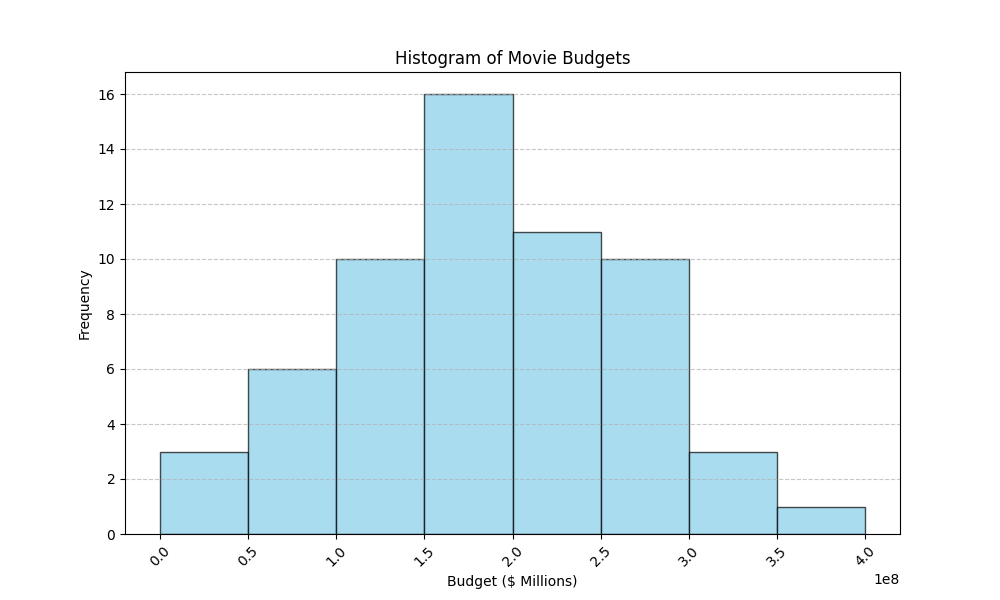
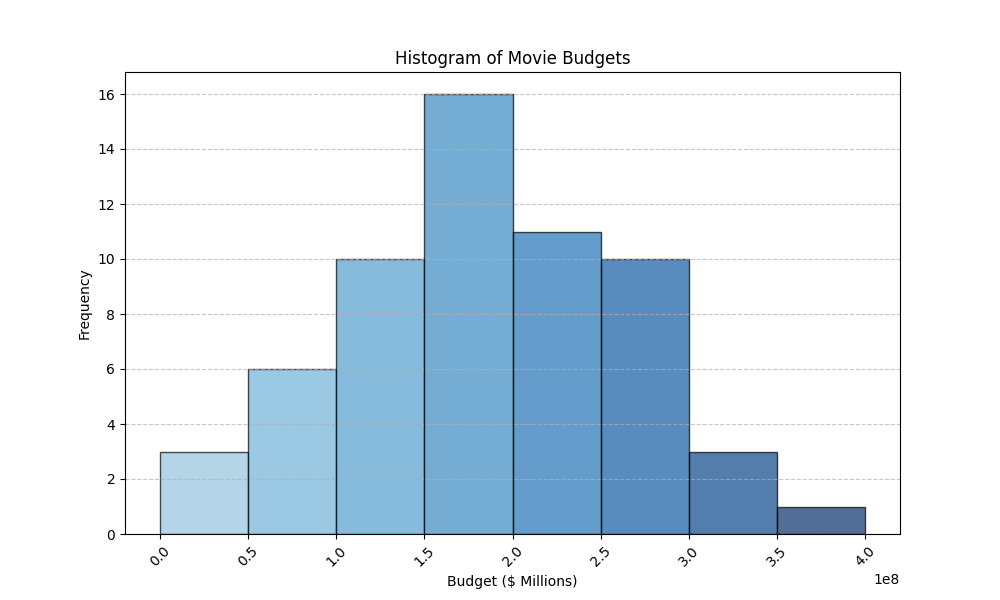
Enhance histogram visualization in Movie.py: Add color gradient to budget histogram bins

Changed region(s): [[0.31, 0.15, 0.868, 0.9]]

diff --git a/Movie.py b/Movie.py
@@ -14,13 +14,19 @@ df['Lifetime Gross'] = df['Lifetime Gross'].replace('[\$,]', '', regex=True).ast
 # Handle missing or invalid data
 df.dropna(subset=['Budget', 'Lifetime Gross'], inplace=True)
 
-# Create a histogram of Budget
 bin_width = 50_000_000  # $50 million per bin
 max_budget = df['Budget'].max()
 bins = np.arange(0, max_budget + bin_width, bin_width)
 
 plt.figure(figsize=(10, 6))
-plt.hist(df['Budget'], bins=bins, color='skyblue', edgecolor='black', alpha=0.7)
+
+n, bins, patches = plt.hist(df['Budget'], bins=bins, edgecolor='black', alpha=0.7)
+
+# Change colors for each bin
+colors = plt.cm.Blues(np.linspace(0.4, 1, len(patches)))  # Generate a gradient of blue shades
+for patch, color in zip(patches, colors):
+    patch.set_facecolor(color)
+
 plt.xlabel('Budget ($ Millions)')
 plt.ylabel('Frequency')
 plt.title('Histogram of Movie Budgets')
